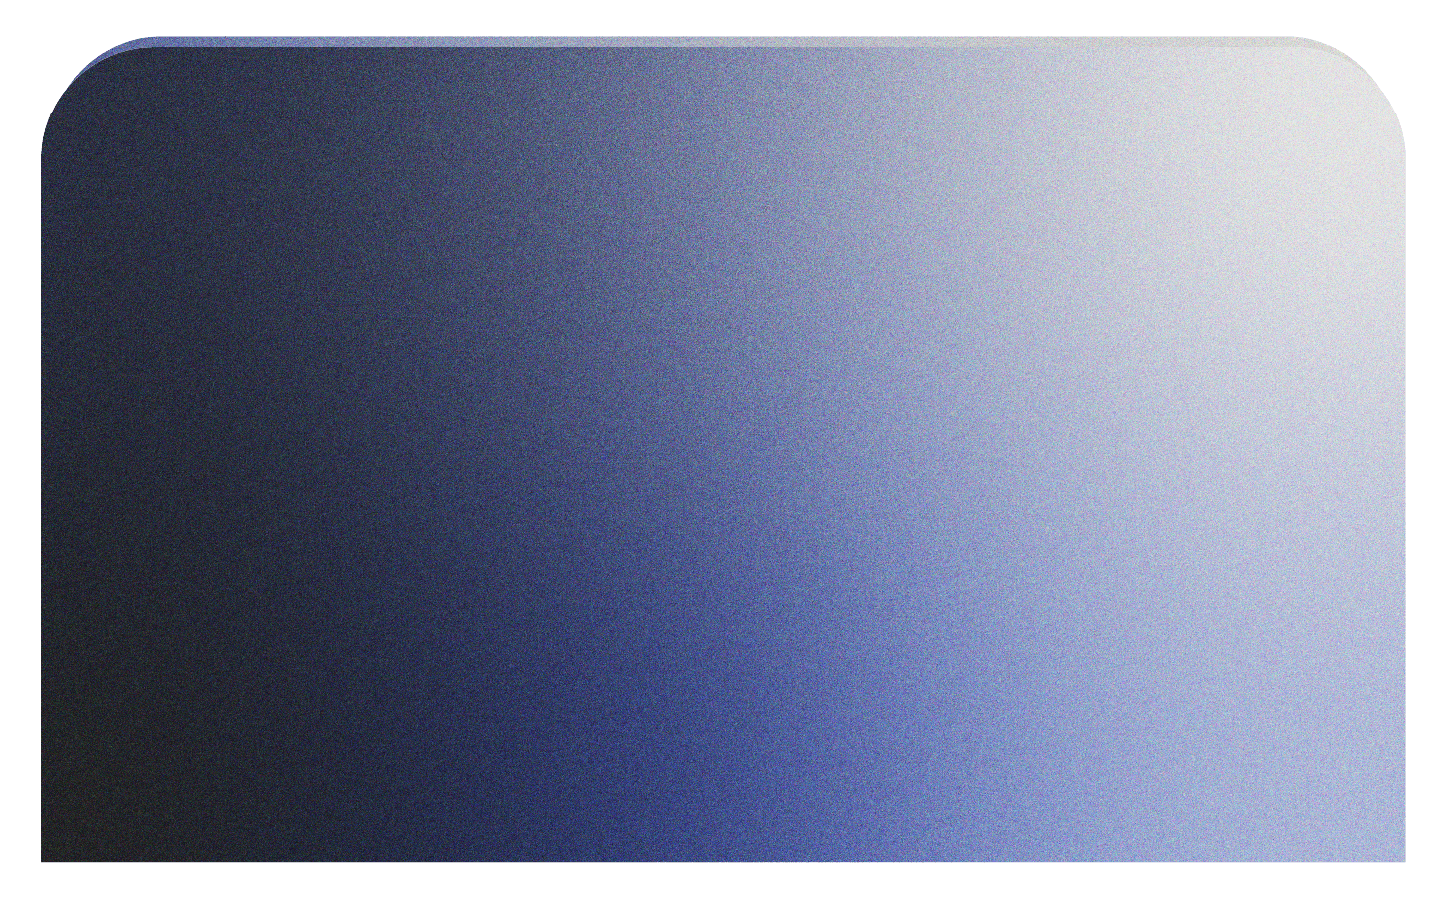
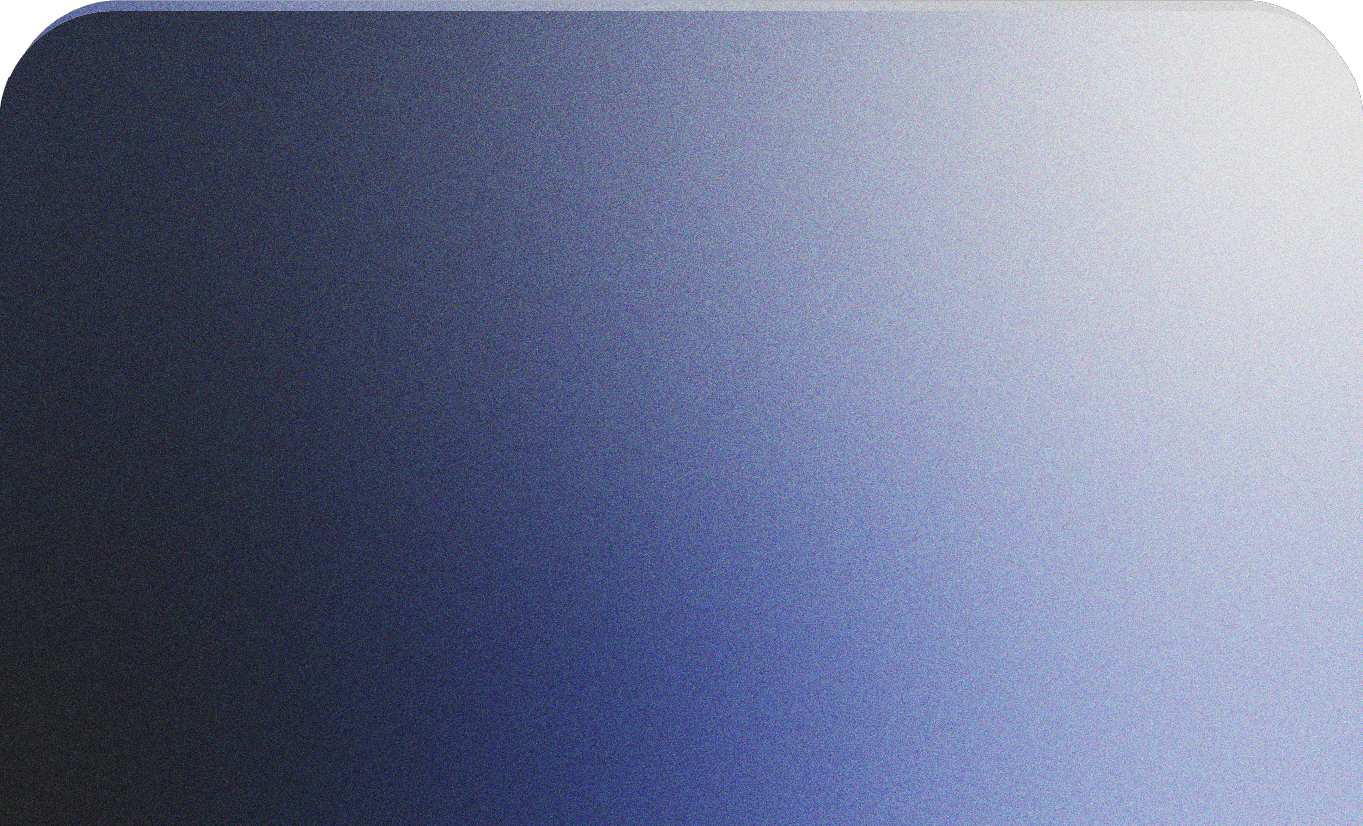
feat: add about page grand theme

diff --git a/src/containers/about/GrandThemeContainer.tsx b/src/containers/about/GrandThemeContainer.tsx
@@ -1,19 +1,254 @@
+'use client';
 import Image from 'next/image';
+import { useState } from 'react';
 
+import sevenYearsRocket from '~/images/about/7-years.png';
+import fiftyYearsRocket from '~/images/about/50-years.png';
 import grandThemeBg from '~/images/about/grand-theme-section.png';
+import grandThemeMobileBg from '~/images/about/grand-theme-section-mobile.png';
+import todayRocket from '~/images/about/today.png';
+import tomorrowRocket from '~/images/about/tomorrow.png';
 
 export default function GrandThemeContainer() {
+  interface rckt {
+    today: boolean;
+    tomorrow: boolean;
+    sevenYears: boolean;
+    fiftyYears: boolean;
+  }
+
+  const [rocket, setRocket] = useState<rckt>({
+    today: true,
+    tomorrow: false,
+    sevenYears: false,
+    fiftyYears: false,
+  });
+
   return (
     <div>
       <section className='relative z-20 flex justify-center overflow-x-clip bg-black'>
         <Image
           src={grandThemeBg}
-          className='scale-[110%]'
+          className='hidden w-full md:block xl:max-w-[1560px]'
           alt='Background'
           placeholder='blur'
           style={{ objectFit: 'cover' }}
         />
-        <div className='absolute h-full w-full'>{/* Start Here */}</div>
+        <Image
+          src={grandThemeMobileBg}
+          className='md:hidden'
+          alt='Background'
+          placeholder='blur'
+          style={{ objectFit: 'cover' }}
+        />
+
+        <div className='absolute flex h-full w-full flex-col overflow-hidden py-4 md:pt-7 lg:pt-10 lg:pl-5 xl:max-w-[1560px] xl:px-10 xl:pt-20'>
+          <div className=' flex w-full p-1 md:mx-10 xl:mx-16'>
+            <a className='mx-auto font-baron text-2xl text-cwhite drop-shadow-md sm:text-3xl md:mx-0 md:text-4xl lg:text-[2.75rem] xl:text-[3.1rem] 2xl:text-[3.8rem]'>
+              GRANð TНeМE
+            </a>
+          </div>
+
+          <div className='flex h-full w-full flex-col md:flex-row'>
+            <div className='relative m-2 mx-auto w-[40%] min-w-[130px] max-w-[250px] drop-shadow-lg md:m-5 md:ml-10 md:w-[250%] md:max-w-[300px] lg:m-5 lg:w-[280%] lg:max-w-[320px] xl:mt-16 xl:ml-9 xl:h-full xl:w-[300%] xl:max-w-[365px] 2xl:ml-16 2xl:w-[350%] 2xl:max-w-[400px]'>
+              <Image
+                src={todayRocket}
+                className={`${rocket.today ? '' : 'hidden'}`}
+                alt='Background'
+                placeholder='blur'
+                style={{ objectFit: 'cover' }}
+              />
+              <Image
+                src={tomorrowRocket}
+                className={`${rocket.tomorrow ? '' : 'hidden'}`}
+                alt='Background'
+                placeholder='blur'
+                style={{ objectFit: 'cover' }}
+              />
+              <Image
+                src={sevenYearsRocket}
+                className={`${rocket.sevenYears ? '' : 'hidden'}`}
+                alt='Background'
+                placeholder='blur'
+                style={{ objectFit: 'cover' }}
+              />
+              <Image
+                src={fiftyYearsRocket}
+                className={`${rocket.fiftyYears ? '' : 'hidden'}`}
+                alt='Background'
+                placeholder='blur'
+                style={{ objectFit: 'cover' }}
+              />
+            </div>
+
+            <div className='flex h-full flex-col gap-4 px-2 pt-3 md:gap-4 md:px-4 md:pr-6 lg:gap-8 lg:px-12 lg:pt-4 xl:gap-9 xl:px-16 xl:pt-8 xl:pr-20 2xl:px-28 2xl:pt-10'>
+              <div
+                className='2xl:rounded[2.8rem] rounded-[1.7rem] bg-cwhite px-4 pt-1 text-center
+              opacity-60 drop-shadow-xl min-[320px]:h-28 min-[350px]:h-32 min-[415px]:h-[8.5rem] min-[415px]:h-36 min-[415px]:py-3 min-[550px]:h-[9.5rem]
+              min-[600px]:h-36 min-[650px]:h-[9rem] md:h-[10rem] md:py-0 md:pt-1 lg:px-2 lg:pb-5 lg:pt-[13px] xl:h-[11rem] xl:rounded-[2.6rem] xl:pt-[16px] 2xl:pt-[20px]'
+              >
+                <p className='mx-auto text-[19px] font-bold leading-relaxed text-cred min-[550px]:text-[22px] md:leading-loose min-[900px]:text-[23px] lg:text-[23px] lg:leading-none xl:text-[32px] 2xl:text-[33px]'>
+                  BEYOND TODAY
+                </p>
+                <div
+                  className='mx-auto w-full text-center text-[9.5px] font-semibold
+                  text-cblack min-[350px]:text-[11px] min-[550px]:text-[12px] min-[600px]:text-[13px] md:text-[10px] min-[900px]:text-[12px] lg:text-[13px] xl:text-[14px]'
+                >
+                  <p className='leading-none lg:leading-8 xl:leading-10'>
+                    "Uncertainty of the Unknown" shows the{' '}
+                    <span className='font-extrabold'>
+                      {' '}
+                      possibility that might come
+                    </span>
+                    , either an <span className='font-bold'>
+                      improvement
+                    </span>{' '}
+                    or
+                    <span className='font-bold'>decline</span>.
+                  </p>
+                  <p className='leading-none xl:leading-relaxed'>
+                    It represents diverse thoughts and brings a wide range of
+                    topics about politics, art, technology, and self-related
+                    topics.
+                  </p>
+                  <p className=' leading-3 '>
+                    We imagined this as a
+                    <span className='font-bold'>rocket traveling in space</span>
+                    , each representing different sub-themes
+                  </p>
+                </div>
+              </div>
+
+              <div
+                className='flex h-[80%] flex-col justify-center gap-4 px-7 min-[365px]:px-[45px] 
+                min-[400px]:px-[76px] min-[450px]:px-[96px] min-[500px]:h-[100%] min-[500px]:px-[140px] min-[550px]:px-[165px] min-[600px]:px-[190px] min-[650px]:px-[220px] min-[730px]:px-[250px] md:flex-row 
+                md:gap-7 md:px-0 lg:gap-10 xl:max-h-[500px] xl:gap-[65px]'
+              >
+                <div
+                  className='h-[30%] min-h-fit w-full rounded-[1.7rem] bg-cwhite px-4 pt-1 font-primary opacity-60 shadow-2xl transition delay-150 
+                  ease-in-out hover:-translate-y-1 hover:scale-110 hover:drop-shadow-2xl md:h-[83%] md:max-h-72 md:px-3
+                  md:pt-2 lg:max-h-[340px] lg:min-h-[77%] lg:px-4 lg:pb-[7rem] lg:hover:scale-105 xl:rounded-[2.4rem] xl:px-5 xl:pb-[10rem] 2xl:pt-4'
+                  onMouseEnter={() =>
+                    setRocket({
+                      today: false,
+                      tomorrow: true,
+                      sevenYears: false,
+                      fiftyYears: false,
+                    })
+                  }
+                  onMouseLeave={() =>
+                    setRocket({
+                      today: true,
+                      tomorrow: false,
+                      sevenYears: false,
+                      fiftyYears: false,
+                    })
+                  }
+                >
+                  <p className='text-center text-[18px] font-bold leading-loose text-cred min-[550px]:text-[22px] md:text-[18px] min-[900px]:text-[21px] xl:text-[25px] 2xl:text-[27px]'>
+                    Tomorrow
+                  </p>
+                  <p
+                    className='mx-auto text-justify text-[9.5px] font-medium leading-[9px] text-cblack min-[350px]:text-[11px]  
+                    min-[400px]:leading-none min-[450px]:text-[12px] min-[600px]:text-[13px] md:text-[10px] min-[900px]:text-[12px] lg:text-[13px] lg:leading-none xl:text-[14px]'
+                  >
+                    To seek tomorrow, one must overcome its past traumas. The
+                    combustion of the rocket is the{' '}
+                    <span className='font-bold'> art of letting go </span>
+                    and <span className='font-bold'>embracing the past</span>,
+                    in order to
+                    <span className='font-bold'>
+                      {' '}
+                      move forward into the future.
+                    </span>
+                  </p>
+                </div>
+
+                <div
+                  className='h-[30%] min-h-fit w-full rounded-[1.7rem] bg-cwhite px-4 pt-1 font-primary opacity-60  drop-shadow-xl transition delay-150 
+                  ease-in-out hover:-translate-y-1 hover:scale-110 hover:drop-shadow-2xl md:h-[83%] md:max-h-72 md:px-3
+                  md:pb-9 md:pt-2 lg:max-h-[340px] lg:min-h-[77%] lg:px-4 lg:hover:scale-105 xl:rounded-[2.4rem] xl:px-5 xl:pb-[5.8rem] 2xl:pt-4'
+                  onMouseEnter={() =>
+                    setRocket({
+                      today: false,
+                      tomorrow: false,
+                      sevenYears: true,
+                      fiftyYears: false,
+                    })
+                  }
+                  onMouseLeave={() =>
+                    setRocket({
+                      today: true,
+                      tomorrow: false,
+                      sevenYears: false,
+                      fiftyYears: false,
+                    })
+                  }
+                >
+                  <p className='text-center text-[18px] font-bold leading-loose text-cred min-[550px]:text-[22px] md:text-[18px] min-[900px]:text-[21px] xl:text-[25px] 2xl:text-[27px]'>
+                    7 Years Later
+                  </p>
+                  <p
+                    className='mx-auto text-justify text-[9.5px] font-medium leading-[9px] text-cblack min-[350px]:text-[11px]  
+                    min-[400px]:leading-none min-[450px]:text-[12px] min-[600px]:text-[13px] md:text-[10px] min-[900px]:text-[12px] lg:text-[13px] lg:leading-none xl:text-[14px]'
+                  >
+                    A rocket, launching seven years later, represents the{' '}
+                    <span className='font-bold'>drive and spirit of youth</span>{' '}
+                    equip themselves with necessary skills and knowledge to face
+                    the upcoming decade. It symbolizes a vehicle that will take
+                    them to{' '}
+                    <span className='font-bold'>
+                      {' '}
+                      new opportunities and experiences
+                    </span>
+                    , and it encourages them to{' '}
+                    <span className='font-bold'>embrace the unknown.</span>
+                  </p>
+                </div>
+
+                <div
+                  className='h-[30%] min-h-fit w-full rounded-[1.7rem] bg-cwhite px-4 pb-3 pt-1 font-primary opacity-60 drop-shadow-xl 
+                  transition delay-150 ease-in-out hover:-translate-y-1 hover:scale-110 hover:drop-shadow-2xl md:h-[83%] md:max-h-72 md:px-3
+                  md:pb-[54px] md:pt-2 lg:max-h-[340px] lg:min-h-[77%] lg:px-4 lg:hover:scale-105 xl:rounded-[2.4rem] xl:px-5 xl:pb-[7rem] 2xl:h-[10.4rem] 2xl:pt-4'
+                  onMouseEnter={() =>
+                    setRocket({
+                      today: false,
+                      tomorrow: false,
+                      sevenYears: false,
+                      fiftyYears: true,
+                    })
+                  }
+                  onMouseLeave={() =>
+                    setRocket({
+                      today: true,
+                      tomorrow: false,
+                      sevenYears: false,
+                      fiftyYears: false,
+                    })
+                  }
+                >
+                  <p className='text-center text-[18px] font-bold leading-loose text-cred min-[550px]:text-[22px] md:text-[18px] min-[900px]:text-[25px] xl:text-[23px] 2xl:text-[27px]'>
+                    50 Years Later
+                  </p>
+                  <p
+                    className='mx-auto text-justify text-[9.5px] font-medium leading-[9px] text-cblack min-[350px]:text-[11px]  
+                    min-[400px]:leading-none min-[450px]:text-[12px] min-[600px]:text-[13px] md:text-[10px] min-[900px]:text-[12px] lg:text-[13px] lg:leading-none xl:text-[14px]'
+                  >
+                    The outer space represents the idea of being{' '}
+                    <span className='font-bold'>open</span> to a vast world of
+                    possibilities and encourages being aware of the invisible
+                    things. A symbol for the{' '}
+                    <span className='font-bold'>unknown future</span> and it
+                    encourages to{' '}
+                    <span className='font-bold'>imagine the unimaginable</span>{' '}
+                    and consider the{' '}
+                    <span className='font-bold'>endless possibilities.</span>
+                  </p>
+                </div>
+              </div>
+            </div>
+          </div>
+        </div>
       </section>
       <div className='h-16 w-full bg-black'></div>
     </div>
